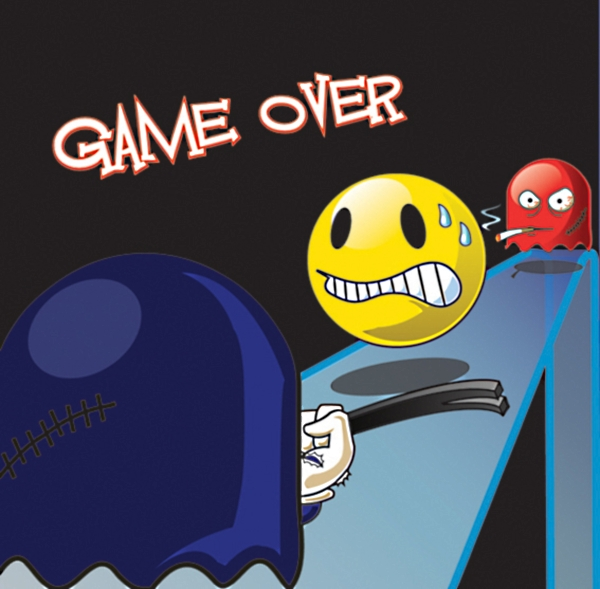
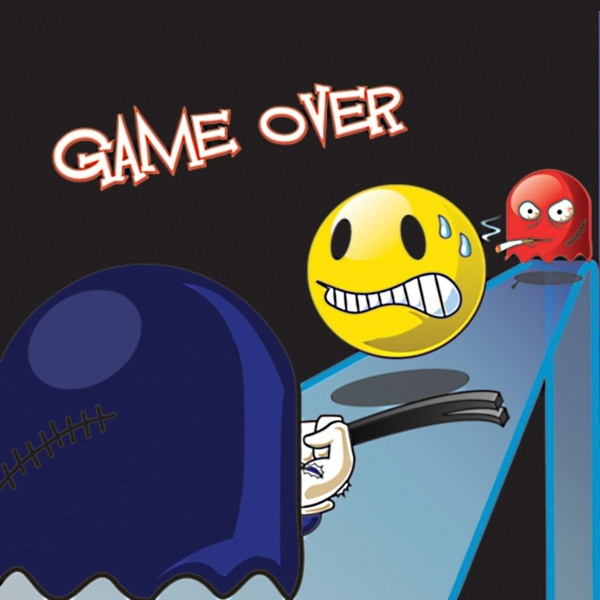
End Game View done.

diff --git a/TP1/src/main/java/com/grupo2/graphicView/ViewsFactory.java b/TP1/src/main/java/com/grupo2/graphicView/ViewsFactory.java
@@ -8,14 +8,9 @@ import com.grupo2.pacman.Pacman;
 import com.grupo2.view.GraphicView;
 import com.grupo2.view.ObjectView;
 import java.awt.event.KeyListener;
-import java.nio.file.Paths;
 import java.util.ArrayList;
 import java.util.List;
-import javax.swing.ImageIcon;
 import javax.swing.JFrame;
-import javax.swing.JPanel;
-import java.awt.PopupMenu;
-import java.awt.Dimension;
 
 /**
  *
@@ -38,15 +33,26 @@ public class ViewsFactory {
         Thread.sleep(1000);
     }
     
-    private static void createEndGame() throws InterruptedException {
-        start = new JFrame("Start");
-        start.setSize(640, 480);
+    private static void createEndGame() {
+        start.getContentPane().removeAll();
+        start.setTitle("Game Over");
+        start.setSize(600, 600);
         start.setLocationRelativeTo(null);
-        start.add(new GameStartView());
+        start.add(new GameEndView());
         start.pack();
         start.setVisible(false);
         start.repaint();
         start.revalidate();
+    }
+    
+    public static void showEndGame() throws InterruptedException {
+        start.setVisible(true);
+        frame.setVisible(false);
+        start.repaint();
+        start.revalidate();
+        Thread.sleep(3000);
+        frame.dispose();
+        start.dispose();
     }
 
     public static GraphicView createGraphicView(Board board, Controller controller) {
@@ -71,7 +77,7 @@ public class ViewsFactory {
         theView.setKeyListener((KeyListener) controller.getReader());
         theView.initialize();
         start.setVisible(false);
-        start.doLayout();
+        createEndGame();
         return theView;
     }
 

diff --git a/TP1/src/main/java/com/grupo2/game/Game.java b/TP1/src/main/java/com/grupo2/game/Game.java
@@ -49,7 +49,7 @@ public class Game {
         return new Level(mazePath, characterPath, controller);
     }
 
-    public void play() {
+    public void play() throws InterruptedException {
         boolean keepPlaying = true;
         int totalScore = 0;
         try {
@@ -60,8 +60,8 @@ public class Game {
         while (keepPlaying) {
             int score = this.actualLevel.play();
             if (this.actualLevel.gameover()) {
-                this.levelIndex = 0;
-                //break;
+                //this.levelIndex = 0;
+                break;
             }
 
             //if (!showContinueToNextLevel(score)) break;
@@ -73,11 +73,11 @@ public class Game {
             }
             totalScore += score;
         }
-        //showEndGame();
+        showEndGame();
     }
     
-    public void showEndGame() {
-        
+    private void showEndGame() throws InterruptedException {
+        ViewsFactory.showEndGame();
     }
 
 }

diff --git a/TP1/src/main/java/com/grupo2/graphicView/GameEndView.java b/TP1/src/main/java/com/grupo2/graphicView/GameEndView.java
@@ -5,8 +5,10 @@
  */
 package com.grupo2.graphicView;
 
+import java.awt.Dimension;
 import java.nio.file.Paths;
 import javax.swing.ImageIcon;
+import javax.swing.JPanel;
 
 /**
  *
@@ -24,6 +26,8 @@ public class GameEndView extends GamePresentationView {
 
     @Override
     protected ImageIcon initialize() {
+        width = 600;
+        height = 600;
         return new ImageIcon(Paths.get("src", "main", "graphicResources", "pacman-game-over.png").toString());
     }
 }

diff --git a/TP1/src/main/java/com/grupo2/graphicView/GamePresentationView.java b/TP1/src/main/java/com/grupo2/graphicView/GamePresentationView.java
@@ -41,6 +41,6 @@ public abstract class GamePresentationView extends JPanel {
      */
     @Override
     public void paintComponent(Graphics g) {
-        g.drawImage(this.bImage, 0, 0, 640, 480, this);
+        g.drawImage(this.bImage, 0, 0, width, height, this);
     }
 }
